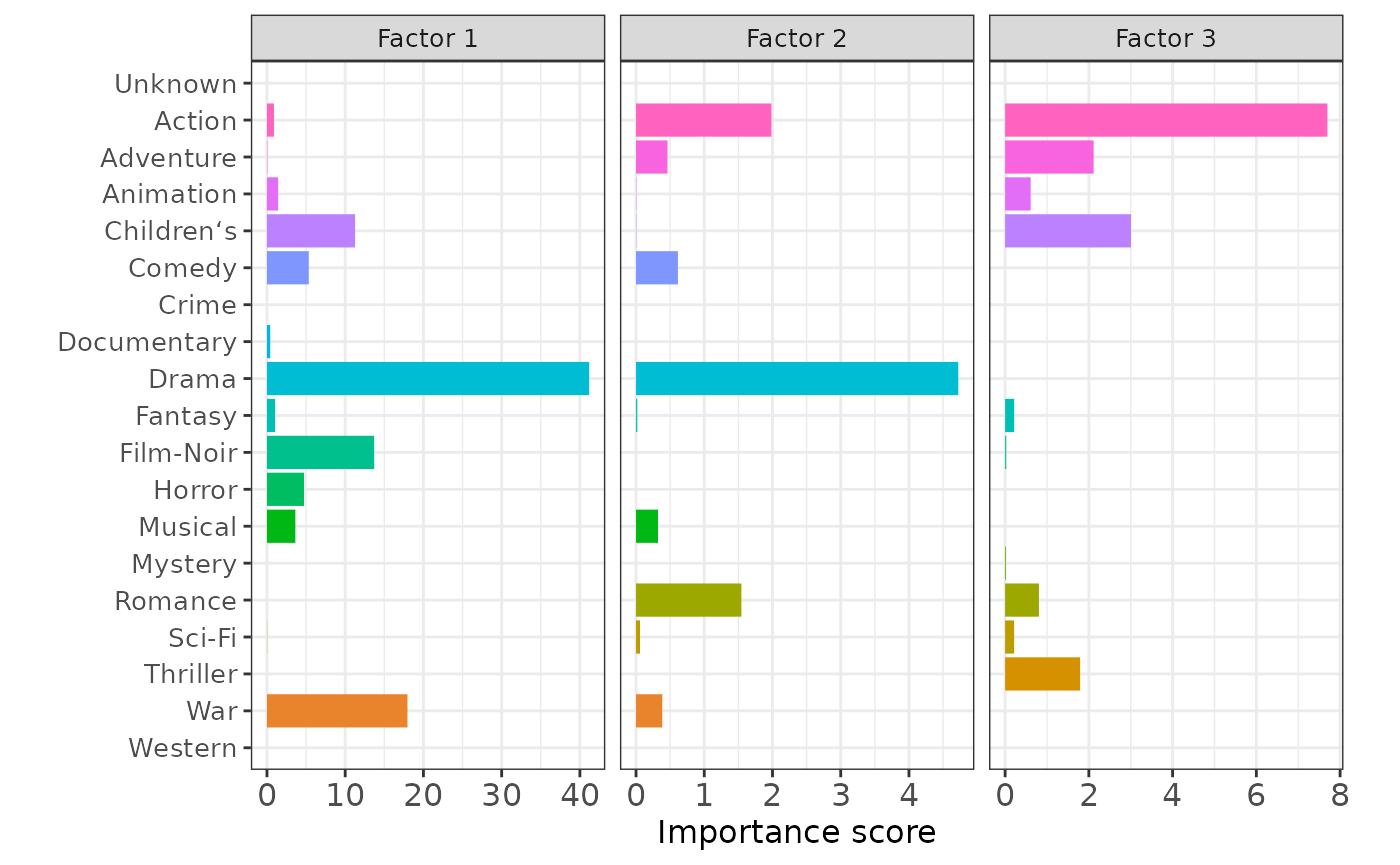
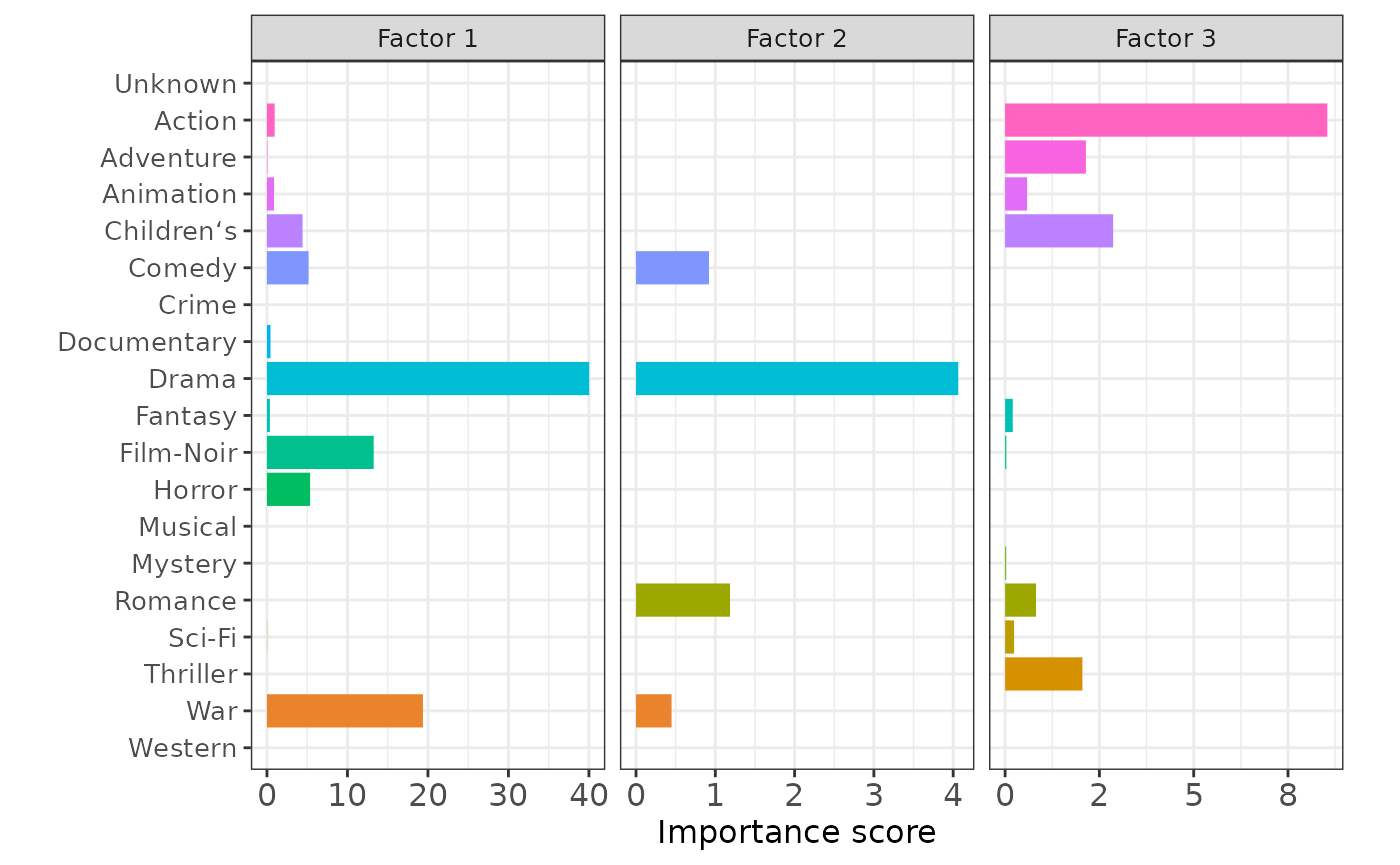
Deploying to gh-pages from @ YangLabHKUST/mfair@01513d05c2a8bbe508892da88008b77b667f1180 🚀

diff --git a/articles/neocortex.html b/articles/neocortex.html
@@ -176,12 +176,12 @@ by <span class="math inline">\(\{ F_1 (\cdot) , F_2 (\cdot) , F_3
 <span><span class="va">FX</span><span class="op">[</span>, <span class="st">"Time period"</span><span class="op">]</span> <span class="op">&lt;-</span> <span class="fu"><a href="https://rdrr.io/r/base/factor.html" class="external-link">factor</a></span><span class="op">(</span><span class="va">FX</span><span class="op">[</span>, <span class="st">"Time period"</span><span class="op">]</span>, levels <span class="op">=</span> <span class="va">stage</span><span class="op">)</span></span>
 <span><span class="fu"><a href="https://rdrr.io/r/utils/head.html" class="external-link">head</a></span><span class="op">(</span><span class="va">FX</span><span class="op">)</span></span>
 <span><span class="co">#&gt;   Neocortex area Time period   Factor 1   Factor 2   Factor 3</span></span>
-<span><span class="co">#&gt; 1            OFC           3 0.08541967 -0.1276331 -0.1413521</span></span>
-<span><span class="co">#&gt; 2            DFC           3 0.08541967 -0.1304649 -0.1651130</span></span>
-<span><span class="co">#&gt; 3            VFC           3 0.08557500 -0.1288645 -0.1367970</span></span>
-<span><span class="co">#&gt; 4            MFC           3 0.08495108 -0.1271726 -0.1594441</span></span>
-<span><span class="co">#&gt; 5            M1C           3 0.08557500 -0.1288645 -0.1607997</span></span>
-<span><span class="co">#&gt; 6            S1C           3 0.08516765 -0.1288645 -0.1608590</span></span></code></pre></div>
+<span><span class="co">#&gt; 1            OFC           3 0.08541949 -0.1276331 -0.1413521</span></span>
+<span><span class="co">#&gt; 2            DFC           3 0.08541949 -0.1304650 -0.1651130</span></span>
+<span><span class="co">#&gt; 3            VFC           3 0.08557482 -0.1288645 -0.1367970</span></span>
+<span><span class="co">#&gt; 4            MFC           3 0.08495090 -0.1271726 -0.1594441</span></span>
+<span><span class="co">#&gt; 5            M1C           3 0.08557482 -0.1288645 -0.1607997</span></span>
+<span><span class="co">#&gt; 6            S1C           3 0.08516747 -0.1288645 -0.1608590</span></span></code></pre></div>
 <div class="sourceCode" id="cb5"><pre class="downlit sourceCode r">
 <code class="sourceCode R"><span><span class="co"># Convert the wide table to the long table</span></span>
 <span><span class="va">FX_long</span> <span class="op">&lt;-</span> <span class="fu"><a href="https://rdrr.io/pkg/reshape2/man/melt.html" class="external-link">melt</a></span><span class="op">(</span></span>
@@ -191,12 +191,12 @@ by <span class="math inline">\(\{ F_1 (\cdot) , F_2 (\cdot) , F_3
 <span><span class="op">)</span></span>
 <span><span class="fu"><a href="https://rdrr.io/r/utils/head.html" class="external-link">head</a></span><span class="op">(</span><span class="va">FX_long</span><span class="op">)</span></span>
 <span><span class="co">#&gt;   Neocortex area Time period   Factor          F</span></span>
-<span><span class="co">#&gt; 1            OFC           3 Factor 1 0.08541967</span></span>
-<span><span class="co">#&gt; 2            DFC           3 Factor 1 0.08541967</span></span>
-<span><span class="co">#&gt; 3            VFC           3 Factor 1 0.08557500</span></span>
-<span><span class="co">#&gt; 4            MFC           3 Factor 1 0.08495108</span></span>
-<span><span class="co">#&gt; 5            M1C           3 Factor 1 0.08557500</span></span>
-<span><span class="co">#&gt; 6            S1C           3 Factor 1 0.08516765</span></span></code></pre></div>
+<span><span class="co">#&gt; 1            OFC           3 Factor 1 0.08541949</span></span>
+<span><span class="co">#&gt; 2            DFC           3 Factor 1 0.08541949</span></span>
+<span><span class="co">#&gt; 3            VFC           3 Factor 1 0.08557482</span></span>
+<span><span class="co">#&gt; 4            MFC           3 Factor 1 0.08495090</span></span>
+<span><span class="co">#&gt; 5            M1C           3 Factor 1 0.08557482</span></span>
+<span><span class="co">#&gt; 6            S1C           3 Factor 1 0.08516747</span></span></code></pre></div>
 <div class="sourceCode" id="cb6"><pre class="downlit sourceCode r">
 <code class="sourceCode R"><span><span class="co"># Visualization of F(.)</span></span>
 <span><span class="va">p</span> <span class="op">&lt;-</span> <span class="fu"><a href="https://ggplot2.tidyverse.org/reference/ggplot.html" class="external-link">ggplot</a></span><span class="op">(</span></span>
@@ -234,12 +234,12 @@ by <span class="math inline">\(\{ F_1 (\cdot) , F_2 (\cdot) , F_3
 <span><span class="fu"><a href="https://rdrr.io/r/base/colnames.html" class="external-link">colnames</a></span><span class="op">(</span><span class="va">gene_factors</span><span class="op">)</span> <span class="op">&lt;-</span> <span class="fu"><a href="https://rdrr.io/r/base/paste.html" class="external-link">paste</a></span><span class="op">(</span><span class="st">"Factor"</span>, <span class="fu"><a href="https://rdrr.io/r/base/c.html" class="external-link">c</a></span><span class="op">(</span><span class="fl">1</span><span class="op">:</span><span class="fl">3</span><span class="op">)</span><span class="op">)</span></span>
 <span><span class="fu"><a href="https://rdrr.io/r/utils/head.html" class="external-link">head</a></span><span class="op">(</span><span class="va">gene_factors</span><span class="op">)</span></span>
 <span><span class="co">#&gt;           Factor 1   Factor 2   Factor 3</span></span>
-<span><span class="co">#&gt; DCUN1D2 -1.0973503  0.4754915 -0.4656469</span></span>
-<span><span class="co">#&gt; ARRB1    3.7897532  0.5357543  0.3688409</span></span>
-<span><span class="co">#&gt; PDE1B    0.1807724  3.1537716 -0.5730507</span></span>
-<span><span class="co">#&gt; PDE7B   -0.1510909  3.2482204 -1.5126715</span></span>
-<span><span class="co">#&gt; TOX      1.6022251 -1.6211513 -1.7326519</span></span>
-<span><span class="co">#&gt; LOXHD1  -3.4764486  0.1372477  0.1020409</span></span></code></pre></div>
+<span><span class="co">#&gt; DCUN1D2 -1.0973545  0.4754917 -0.4656467</span></span>
+<span><span class="co">#&gt; ARRB1    3.7897678  0.5357535  0.3688403</span></span>
+<span><span class="co">#&gt; PDE1B    0.1807732  3.1537712 -0.5730507</span></span>
+<span><span class="co">#&gt; PDE7B   -0.1510914  3.2482200 -1.5126716</span></span>
+<span><span class="co">#&gt; TOX      1.6022312 -1.6211514 -1.7326521</span></span>
+<span><span class="co">#&gt; LOXHD1  -3.4764620  0.1372484  0.1020414</span></span></code></pre></div>
 <div class="sourceCode" id="cb8"><pre class="downlit sourceCode r">
 <code class="sourceCode R"><span><span class="co"># Heatmap of the inferred gene factors</span></span>
 <span><span class="fu">pheatmap</span><span class="fu">::</span><span class="fu"><a href="https://rdrr.io/pkg/pheatmap/man/pheatmap.html" class="external-link">pheatmap</a></span><span class="op">(</span><span class="fu"><a href="https://rdrr.io/r/base/t.html" class="external-link">t</a></span><span class="op">(</span><span class="va">gene_factors</span><span class="op">)</span>,</span>

diff --git a/articles/ml100k.html b/articles/ml100k.html
@@ -123,17 +123,17 @@ proceed to fit the MFAI model with top three factors.</p>
 <span><span class="co">#&gt; Set K_max = 3!</span></span>
 <span><span class="co">#&gt; Initialize the parameters of factor 1......</span></span>
 <span><span class="co">#&gt; After 2 iterations Stage 1 ends!</span></span>
-<span><span class="co">#&gt; After 134 iterations Stage 2 ends!</span></span>
+<span><span class="co">#&gt; After 135 iterations Stage 2 ends!</span></span>
 <span><span class="co">#&gt; Factor 1 retained!</span></span>
 <span><span class="co">#&gt; Save the initializaiton information......</span></span>
 <span><span class="co">#&gt; Initialize the parameters of factor 2......</span></span>
 <span><span class="co">#&gt; After 2 iterations Stage 1 ends!</span></span>
-<span><span class="co">#&gt; After 338 iterations Stage 2 ends!</span></span>
+<span><span class="co">#&gt; After 335 iterations Stage 2 ends!</span></span>
 <span><span class="co">#&gt; Factor 2 retained!</span></span>
 <span><span class="co">#&gt; Save the initializaiton information......</span></span>
 <span><span class="co">#&gt; Initialize the parameters of factor 3......</span></span>
 <span><span class="co">#&gt; After 2 iterations Stage 1 ends!</span></span>
-<span><span class="co">#&gt; After 96 iterations Stage 2 ends!</span></span>
+<span><span class="co">#&gt; After 93 iterations Stage 2 ends!</span></span>
 <span><span class="co">#&gt; Factor 3 retained!</span></span>
 <span><span class="co">#&gt; Save the initializaiton information......</span></span></code></pre></div>
 </div>
@@ -215,15 +215,15 @@ permuting the entries of the corresponding column in the real genre data
 <span><span class="co">#&gt; Set K_max = 3!</span></span>
 <span><span class="co">#&gt; Use the user-specific initialization for factor 1......</span></span>
 <span><span class="co">#&gt; After 2 iterations Stage 1 ends!</span></span>
-<span><span class="co">#&gt; After 137 iterations Stage 2 ends!</span></span>
+<span><span class="co">#&gt; After 136 iterations Stage 2 ends!</span></span>
 <span><span class="co">#&gt; Factor 1 retained!</span></span>
 <span><span class="co">#&gt; Use the user-specific initialization for factor 2......</span></span>
 <span><span class="co">#&gt; After 2 iterations Stage 1 ends!</span></span>
-<span><span class="co">#&gt; After 318 iterations Stage 2 ends!</span></span>
+<span><span class="co">#&gt; After 316 iterations Stage 2 ends!</span></span>
 <span><span class="co">#&gt; Factor 2 retained!</span></span>
 <span><span class="co">#&gt; Use the user-specific initialization for factor 3......</span></span>
 <span><span class="co">#&gt; After 2 iterations Stage 1 ends!</span></span>
-<span><span class="co">#&gt; After 92 iterations Stage 2 ends!</span></span>
+<span><span class="co">#&gt; After 90 iterations Stage 2 ends!</span></span>
 <span><span class="co">#&gt; Factor 3 retained!</span></span></code></pre></div>
 <div class="sourceCode" id="cb7"><pre class="downlit sourceCode r">
 <code class="sourceCode R"><span><span class="co"># Get importance score</span></span>
@@ -283,15 +283,15 @@ MFAI model.</p>
 <span><span class="co">#&gt; Set K_max = 3!</span></span>
 <span><span class="co">#&gt; Use the user-specific initialization for factor 1......</span></span>
 <span><span class="co">#&gt; After 2 iterations Stage 1 ends!</span></span>
-<span><span class="co">#&gt; After 134 iterations Stage 2 ends!</span></span>
+<span><span class="co">#&gt; After 135 iterations Stage 2 ends!</span></span>
 <span><span class="co">#&gt; Factor 1 retained!</span></span>
 <span><span class="co">#&gt; Use the user-specific initialization for factor 2......</span></span>
 <span><span class="co">#&gt; After 2 iterations Stage 1 ends!</span></span>
-<span><span class="co">#&gt; After 338 iterations Stage 2 ends!</span></span>
+<span><span class="co">#&gt; After 335 iterations Stage 2 ends!</span></span>
 <span><span class="co">#&gt; Factor 2 retained!</span></span>
 <span><span class="co">#&gt; Use the user-specific initialization for factor 3......</span></span>
 <span><span class="co">#&gt; After 2 iterations Stage 1 ends!</span></span>
-<span><span class="co">#&gt; After 96 iterations Stage 2 ends!</span></span>
+<span><span class="co">#&gt; After 93 iterations Stage 2 ends!</span></span>
 <span><span class="co">#&gt; Factor 3 retained!</span></span></code></pre></div>
 <div class="sourceCode" id="cb9"><pre class="downlit sourceCode r">
 <code class="sourceCode R"><span><span class="co"># Get importance score</span></span>
